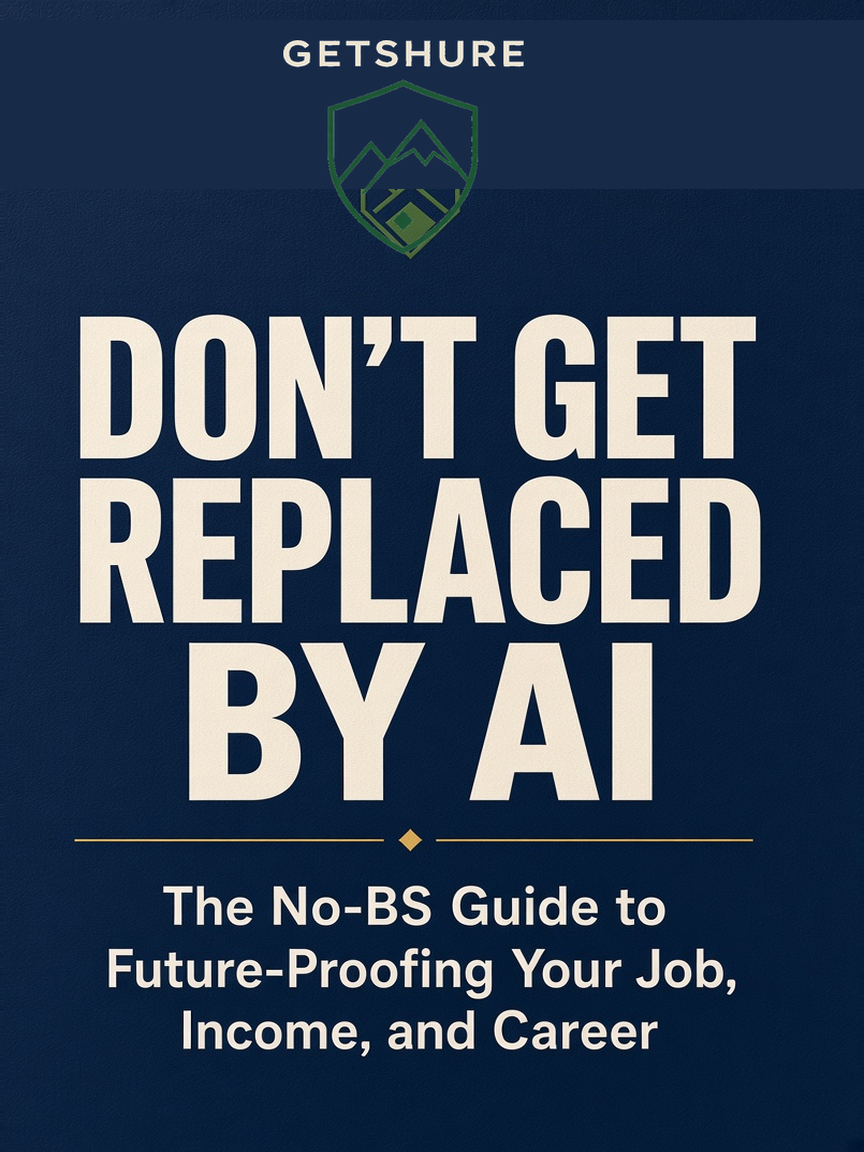
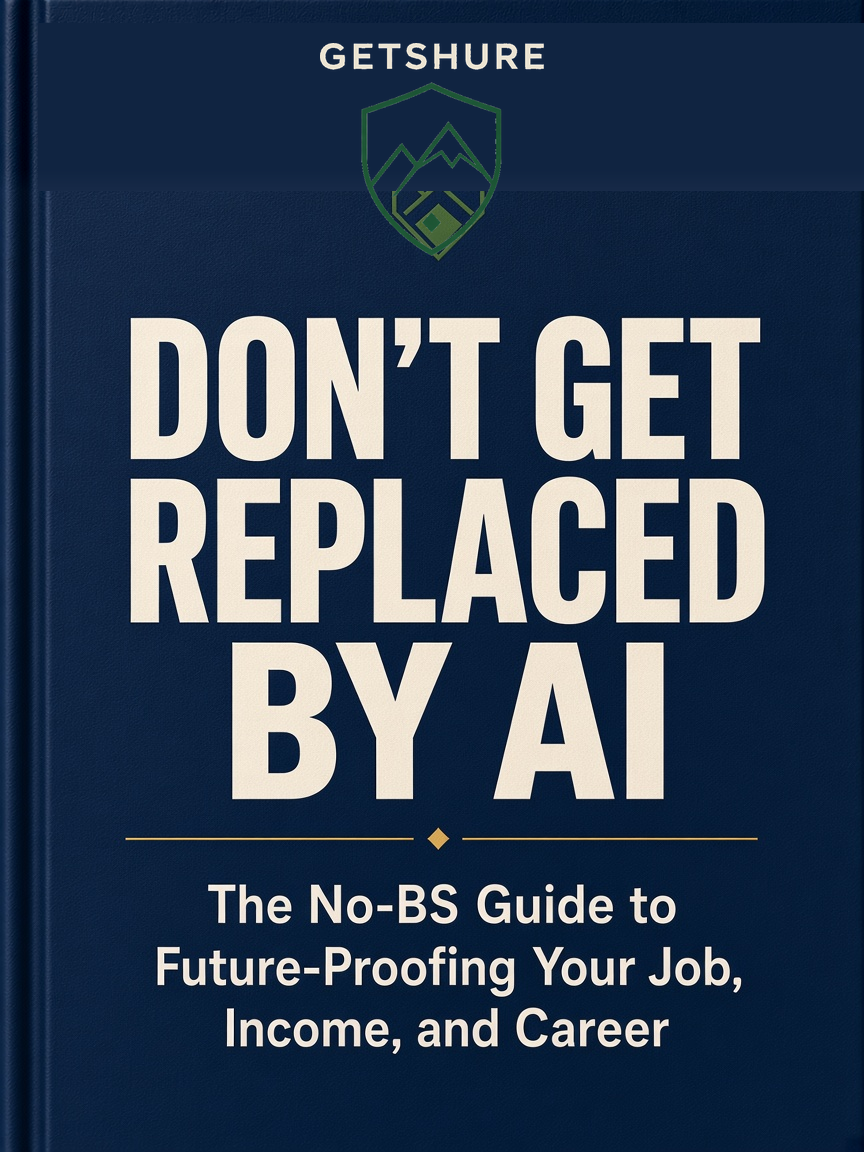
Fix shop badges contrast and career cover top band.
Badges sit top-left with colors that read on cream/navy/sage covers; career hardcover top navy is color-matched to the leather face so the flat band disappears.

Changed region(s): [[0.0938, 0.25, 0.9062, 0.9375], [0.0, 0.0, 0.0625, 1.0], [0.3125, 0.0312, 0.625, 0.2188]]

diff --git a/index.html b/index.html
@@ -169,25 +169,27 @@
   }
   .badge {
     position: absolute;
-    top: auto;
-    left: 50%;
-    bottom: 10px;
-    transform: translateX(-50%);
-    font-size: 12px;
+    top: 10px;
+    left: 10px;
+    right: auto;
+    bottom: auto;
+    transform: none;
+    font-size: 11px;
     font-weight: 800;
-    letter-spacing: .06em;
+    letter-spacing: .05em;
     text-transform: uppercase;
-    padding: 7px 14px;
-    border-radius: 6px;
+    padding: 6px 11px;
+    border-radius: 5px;
     z-index: 2;
     color: #fff;
     white-space: nowrap;
-    box-shadow: 0 4px 14px rgba(0,0,0,.28);
+    box-shadow: 0 3px 12px rgba(0,0,0,.35);
     pointer-events: none;
   }
-  .badge-bestseller { background: #d97706; }
-  .badge-career { background: #0b3a5b; }
-  .badge-family { background: #2f6b4f; }
+  /* High-contrast vs each cover (cream / navy / sage) */
+  .badge-bestseller { background: #c2410c; color: #fff; }
+  .badge-career { background: #fbbf24; color: #0b1f33; }
+  .badge-family { background: #fff7ed; color: #14532d; box-shadow: 0 3px 12px rgba(0,0,0,.25), inset 0 0 0 1.5px #166534; }
   .card-body { padding: 20px; display: flex; flex-direction: column; flex: 1; }
   .rating { font-size: 13px; color: var(--muted); margin-bottom: 8px; }
   .card-body h4 { font-size: 18px; font-weight: 600; margin: 0 0 8px; color: var(--navy); }
@@ -214,8 +216,8 @@
     filter: drop-shadow(0 14px 28px rgba(15,30,50,.18));
   }
   #shop.shop-a .badge {
-    bottom: 6px;
-    box-shadow: 0 6px 18px rgba(0,0,0,.32);
+    top: 8px;
+    left: 8px;
   }
 
   #shop.shop-b .card {
@@ -541,7 +543,7 @@
       <article class="card">
         <a class="cover" href="product-career.html">
           <span class="badge badge-career">Career guide</span>
-          <img src="covers/getshure-final-career.png?v=8" alt="Don’t Get Replaced by AI cover" width="400" height="533" />
+          <img src="covers/getshure-final-career.png?v=11" alt="Don’t Get Replaced by AI cover" width="400" height="533" />
         </a>
         <div class="card-body">
           <div class="rating"><span class="stars">★★★★☆</span> 4.7 · 1,942 reviews</div>

diff --git a/product-career.html b/product-career.html
@@ -43,7 +43,7 @@
       <div class="product">
         <div class="product-cover">
           <div class="product-cover-frame">
-            <img src="covers/getshure-final-career.png?v=8" alt="Don't Get Replaced by AI hardcover" width="800" height="1067" />
+            <img src="covers/getshure-final-career.png?v=11" alt="Don't Get Replaced by AI hardcover" width="800" height="1067" />
           </div>
         </div>
         <div class="product-info">
@@ -76,7 +76,7 @@
       <h2>Frequently bought together</h2>
       <div class="fbt-box">
         <div class="fbt-thumbs">
-<div class="fbt-item"><a href="product-career.html" class="fbt-thumb"><img src="covers/getshure-final-career.png?v=8" alt="Don't Get Replaced by AI" width="120" height="160" /></a><span class="fbt-plus" aria-hidden="true">+</span></div>
+<div class="fbt-item"><a href="product-career.html" class="fbt-thumb"><img src="covers/getshure-final-career.png?v=11" alt="Don't Get Replaced by AI" width="120" height="160" /></a><span class="fbt-plus" aria-hidden="true">+</span></div>
 <div class="fbt-item"><a href="product-screwed.html" class="fbt-thumb"><img src="covers/getshure-final-screwed.png?v=8" alt="Don't Get Screwed by AI" width="120" height="160" /></a><span class="fbt-plus" aria-hidden="true">+</span></div>
 <div class="fbt-item"><a href="product-family.html" class="fbt-thumb"><img src="covers/getshure-final-family.png?v=9" alt="Keep Your Family Safe from AI" width="120" height="160" /></a></div>
         </div>
